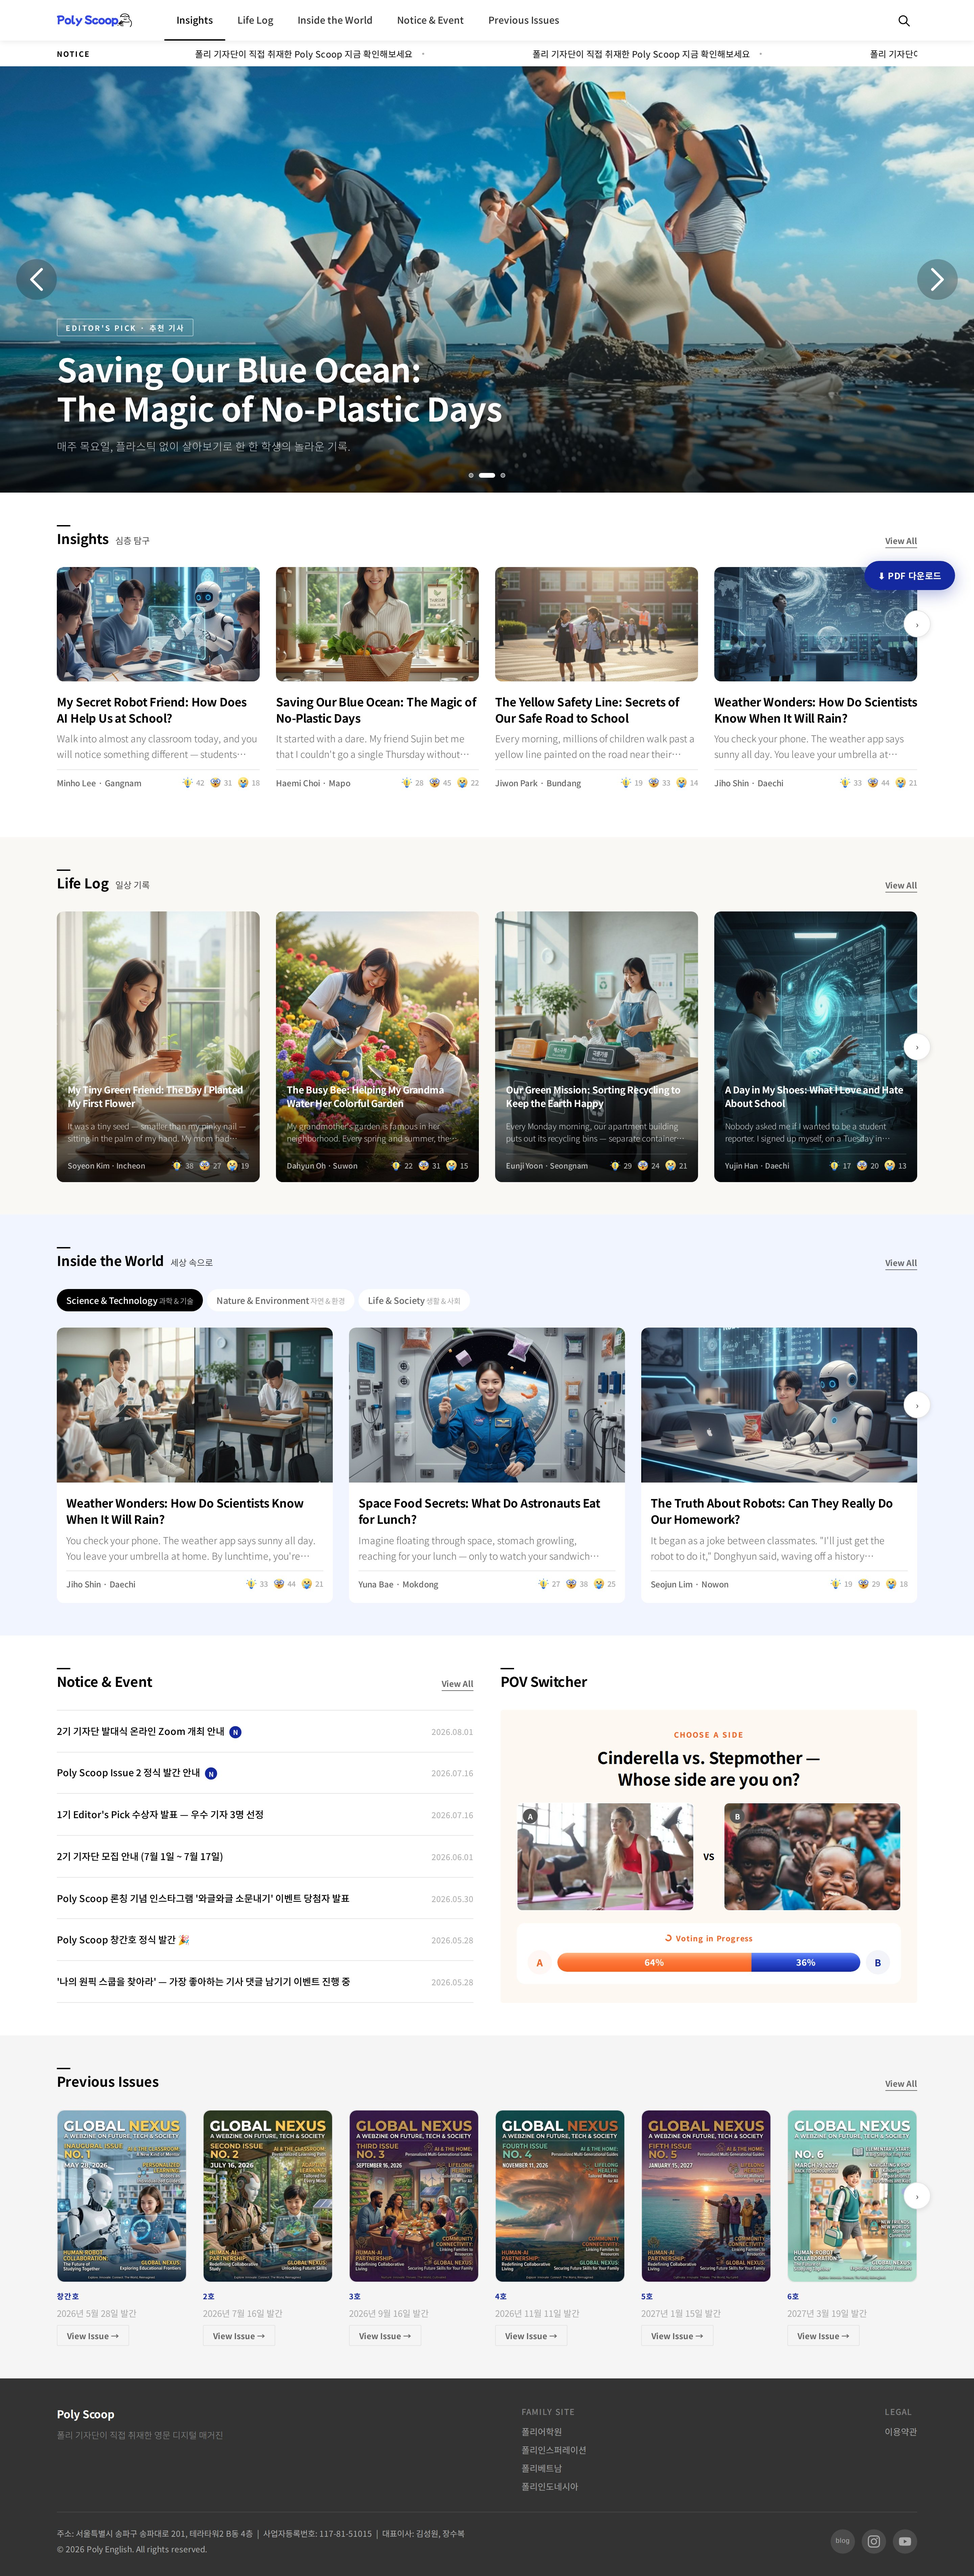
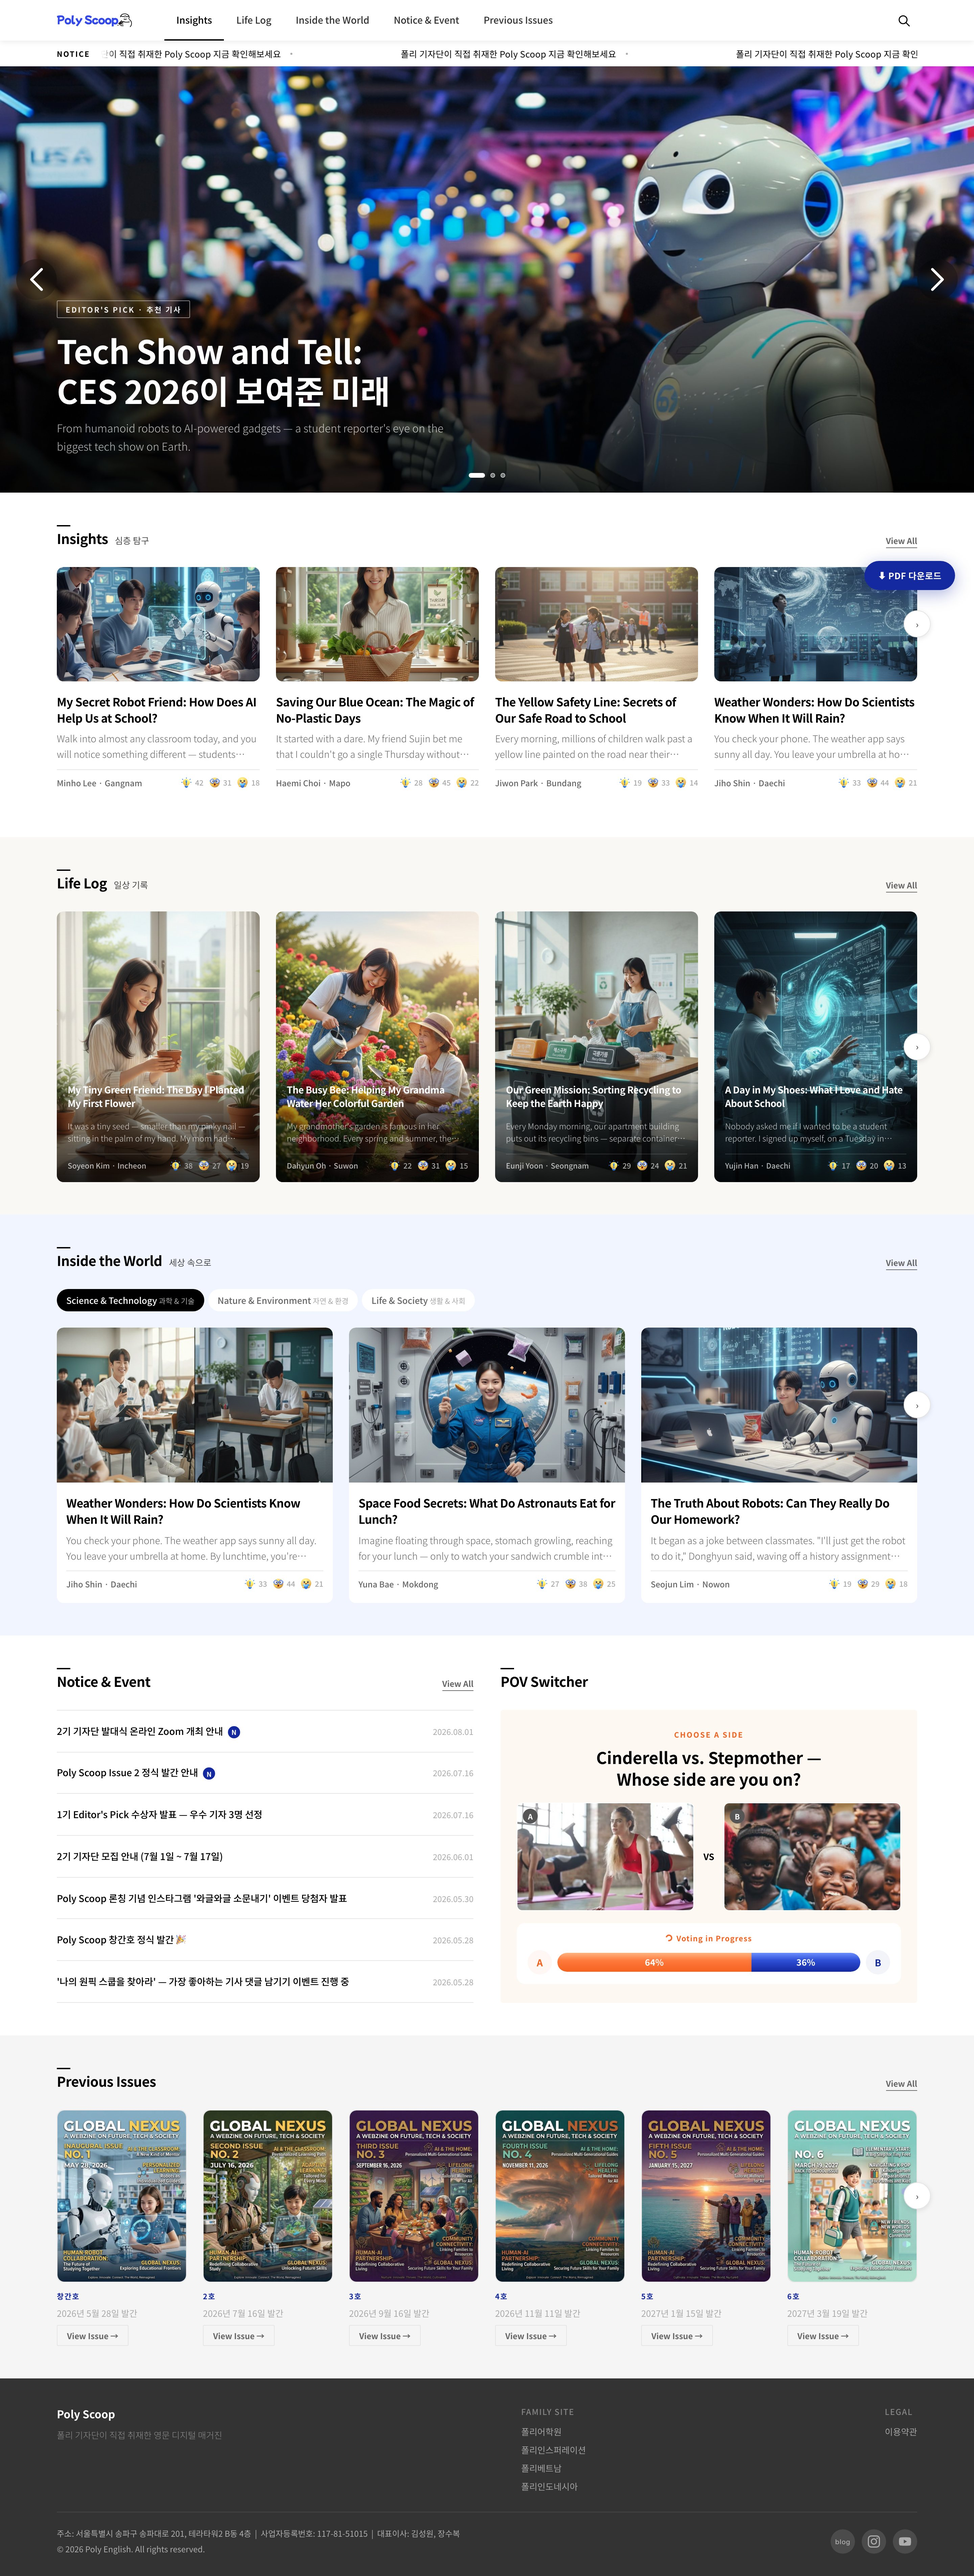
chore: edutech 저장소 제외, polyscoop 순서 맨 끝으로, 히어로를 CES 컷으로
- edutech 은 포트폴리오에 싣지 않는다. EXCLUDE 에 추가하고 남아 있던 컷 3장 삭제
- polyscoop 에 order=99999 — 커밋 최신순으로는 맨 앞에 오지만 목록 끝에 두기로 했다
- polyscoop 대표 컷의 히어로 캐러셀을 첫 슬라이드(CES)에 고정해 다시 찍었다.
  auto 회전을 멈추고 heroGo(0) 으로 맞춘다

diff --git a/scripts/build_data.py b/scripts/build_data.py
@@ -25,7 +25,7 @@ OWNER = os.environ.get("PORTFOLIO_OWNER", "jinilee-hue")
 API = "https://api.github.com"
 
 # 포트폴리오에 싣지 않을 저장소
-EXCLUDE = {"portfolio", "design-extractor"}
+EXCLUDE = {"portfolio", "design-extractor", "edutech"}
 
 
 def token() -> str | None:
